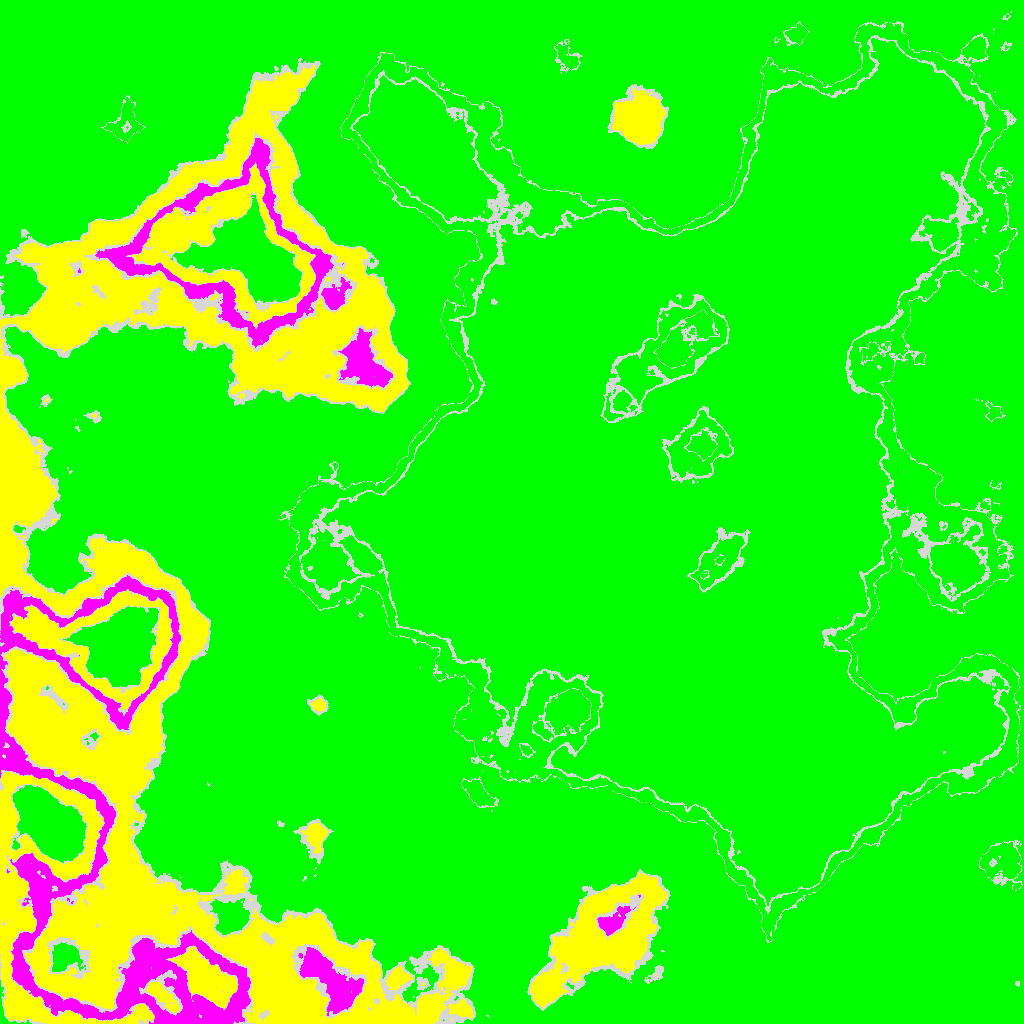
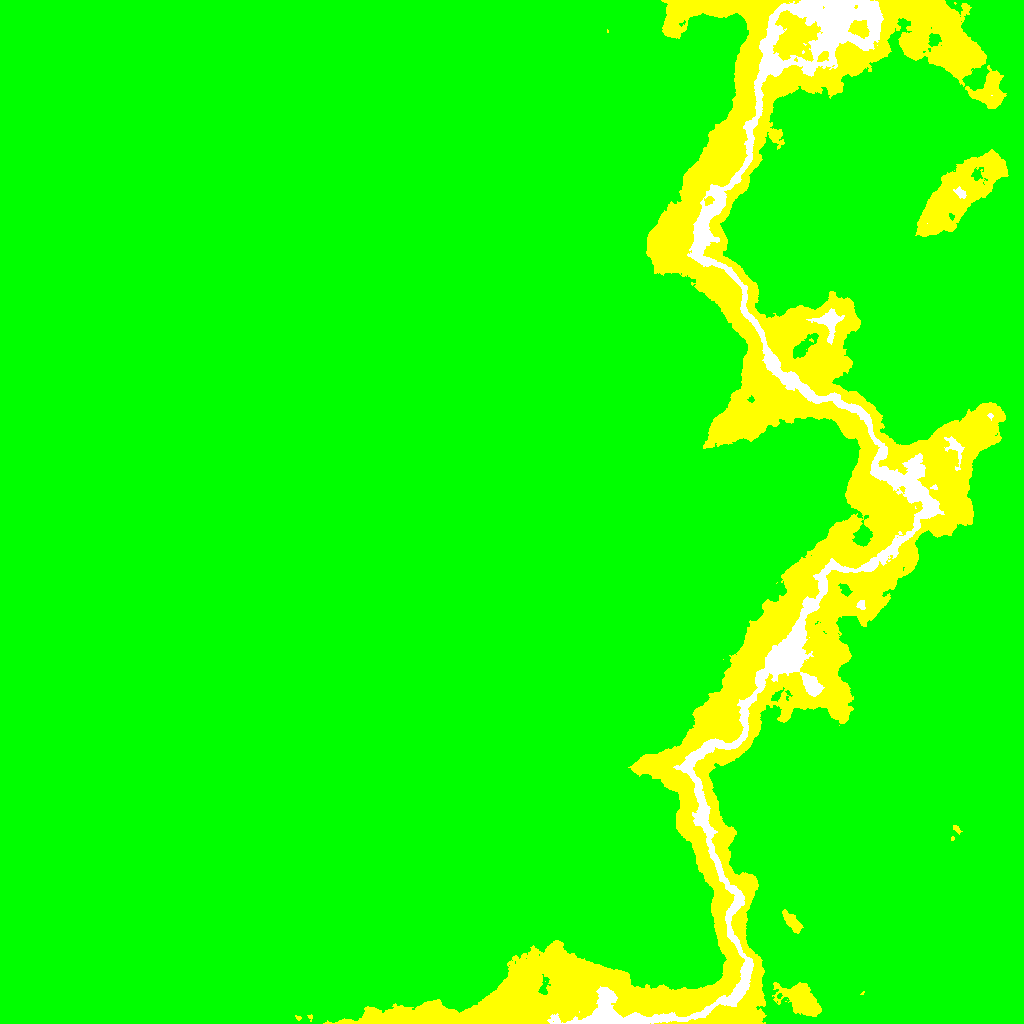
Map looks nicer
Got some nice colours that look good regardless of height but can't seem
to find out how to map it 100%

diff --git a/Assets/Plasma.cs b/Assets/Plasma.cs
@@ -211,22 +211,29 @@ public class Plasma : MonoBehaviour {
 		  			something = heights[i,j];
 		  
 		  if (something <= 1.0f && something >0.75f){
-		  		colormap.SetPixel(i,j, new Color(255,0,255));
+					//colormap.SetPixel(i,j, new Color (0,0,0));
+					colormap.SetPixel(i,j, new Color(255/255.0f,255/255.0f,255/255.0f));
 		  }
-			if (something <= 0.74f && something >0.66f){
-					colormap.SetPixel(i,j, new Color(128,64,0));
+			if (something <= 0.75f && something >0.66f){
+					colormap.SetPixel(i,j, new Color (192/255.0f,192/255.0f,192/255.0f));
+					//colormap.SetPixel(i,j, new Color(255/255.0f,255/255.0f,255/255.0f));
+
 			}
-				if (something <= 0.65f && something > 0.26f){
-					colormap.SetPixel(i,j, new Color (0,64,0));
+				if (something <= 0.66f && something > 0.56f){
+					colormap.SetPixel(i,j, new Color(128/255.0f,64/255.0f,0));
+					//colormap.SetPixel(i,j, new Color(255/255.0f,255/255.0f,255/255.0f));
+
 				}
-					if (something <=0.25f && something > 0.0f){
-					colormap.SetPixel(i,j, new Color(0,128,0));
+					if (something <=0.56f && something > 0.0f){
+					colormap.SetPixel(i,j, new Color(0,64/255.0f,0));
+					//colormap.SetPixel(i,j, new Color(255/255.0f,255/255.0f,255/255.0f));
+
 				}
 
 		}
 		}
-		byte[] img = colormap.EncodeToPNG ();
-		File.WriteAllBytes (Application.dataPath + "/map" + ".png", img);
+		//byte[] img = colormap.EncodeToPNG ();
+		//File.WriteAllBytes (Application.dataPath + "/map" + ".png", img);
 		colormap.Apply ();
 
 
